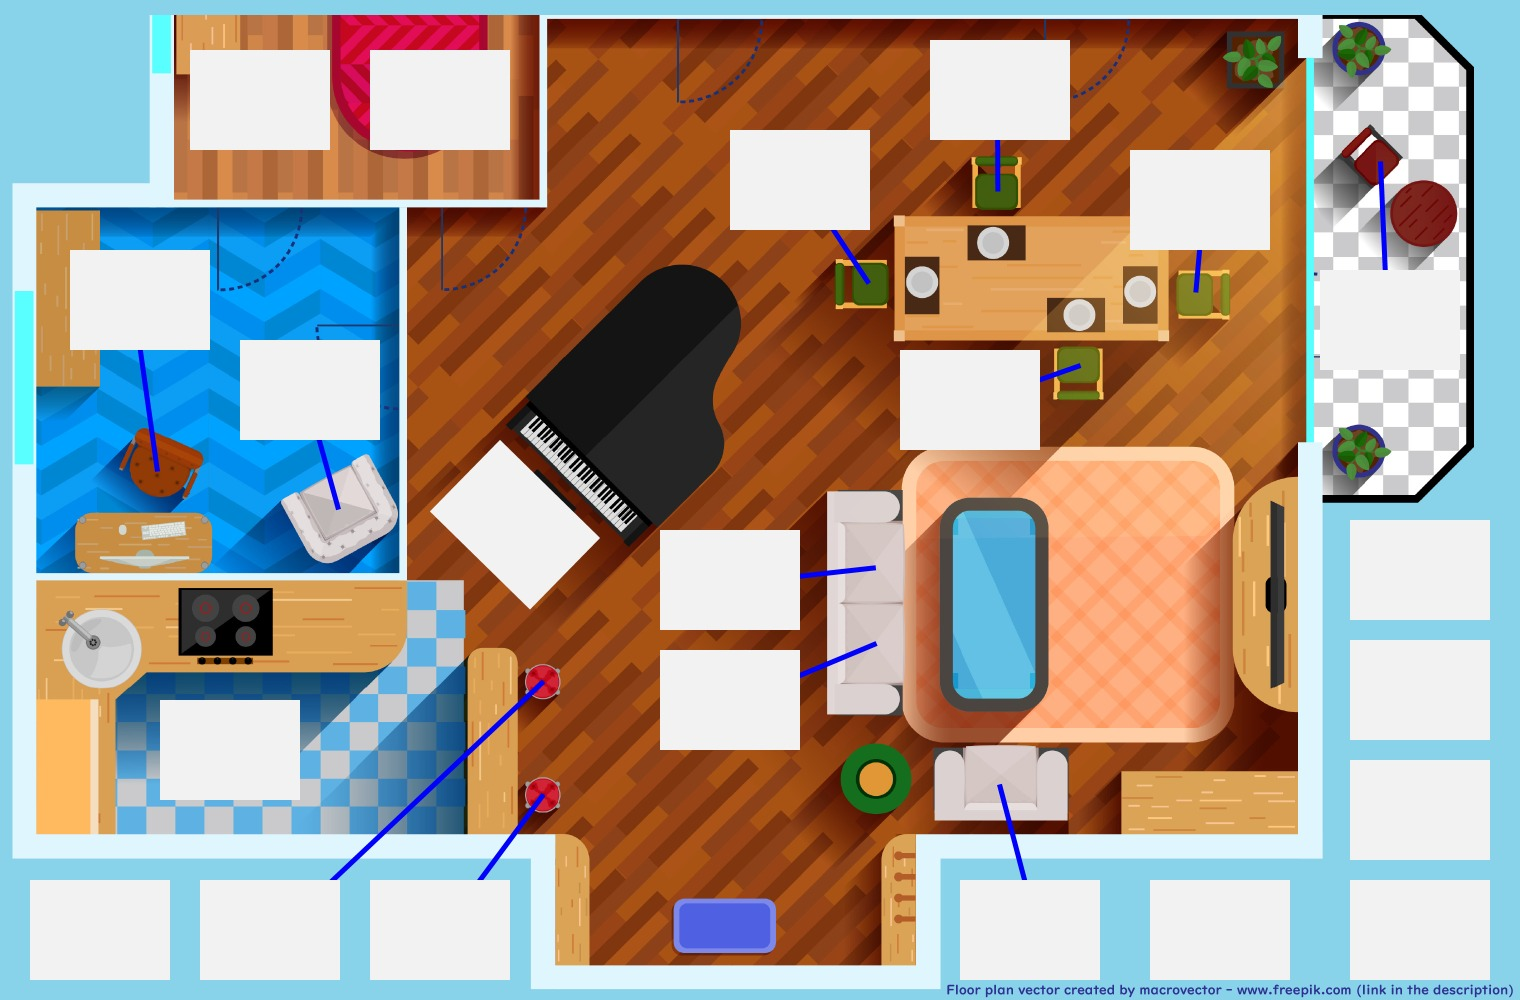
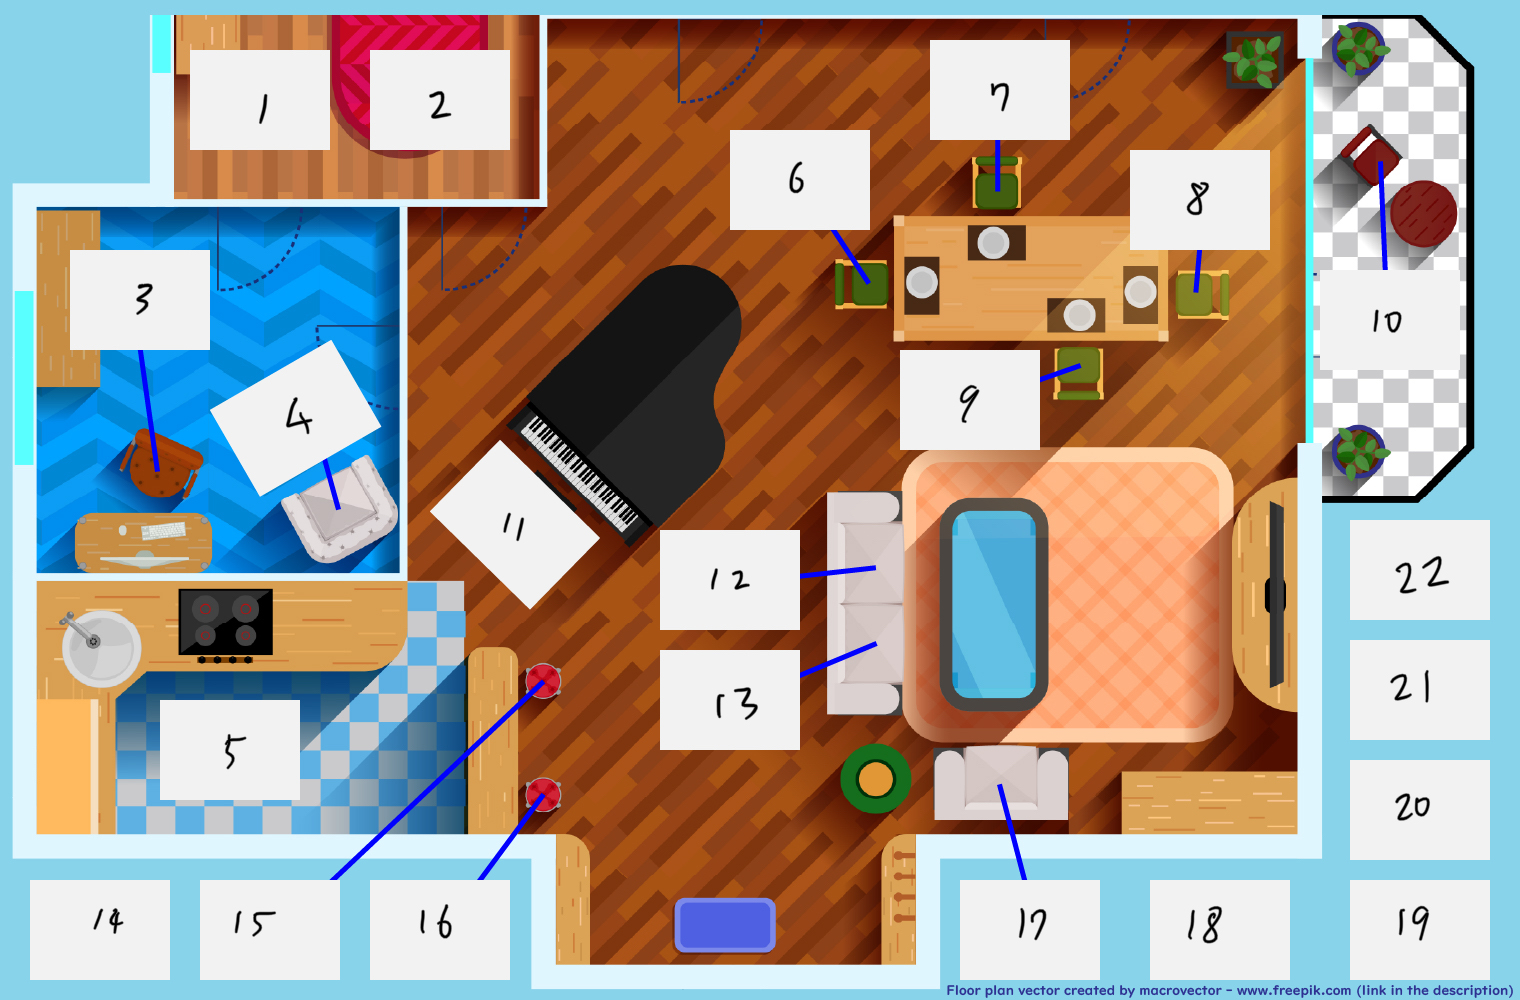
update room layouts

diff --git a/youtube-monitor/src/rooms/layouts/freepick2_room.ts b/youtube-monitor/src/rooms/layouts/freepick2_room.ts
@@ -82,9 +82,9 @@ export const Freepick2RoomLayout: RoomLayout = {
         },
         {
             id: 12,
-            x: 500,
-            y: 700,
-            rotate: 0,
+            x: 570,
+            y: 650,
+            rotate: 40,
         },
         {
             id: 13,

diff --git a/youtube-monitor/src/rooms/layouts/freepick1_room.ts b/youtube-monitor/src/rooms/layouts/freepick1_room.ts
@@ -34,9 +34,9 @@ export const Freepick1RoomLayout: RoomLayout = {
         },
         {
             id: 4,
-            x: 240,
-            y: 340,
-            rotate: 0,
+            x: 210,
+            y: 410,
+            rotate: -30,
         },
         {
             id: 5,
